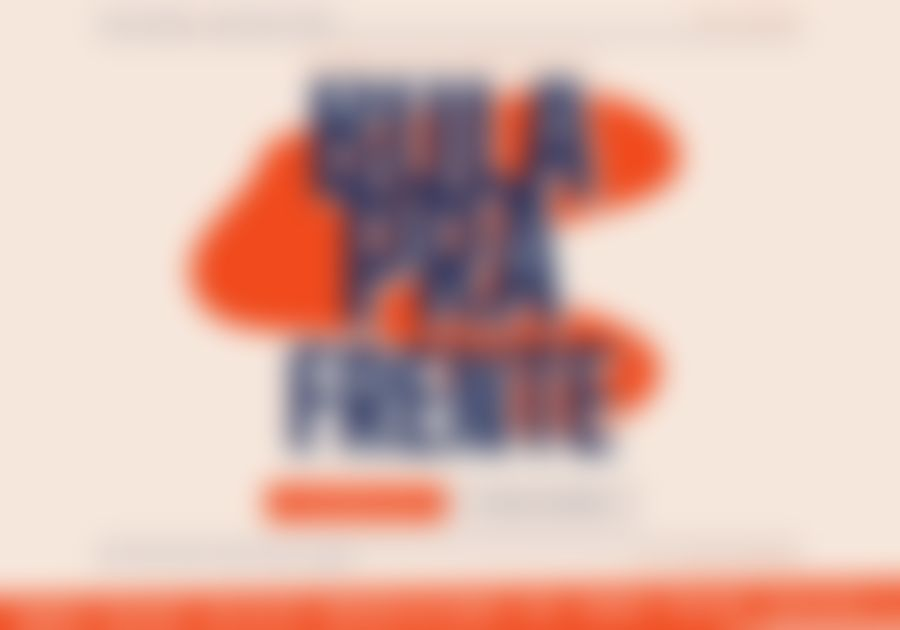
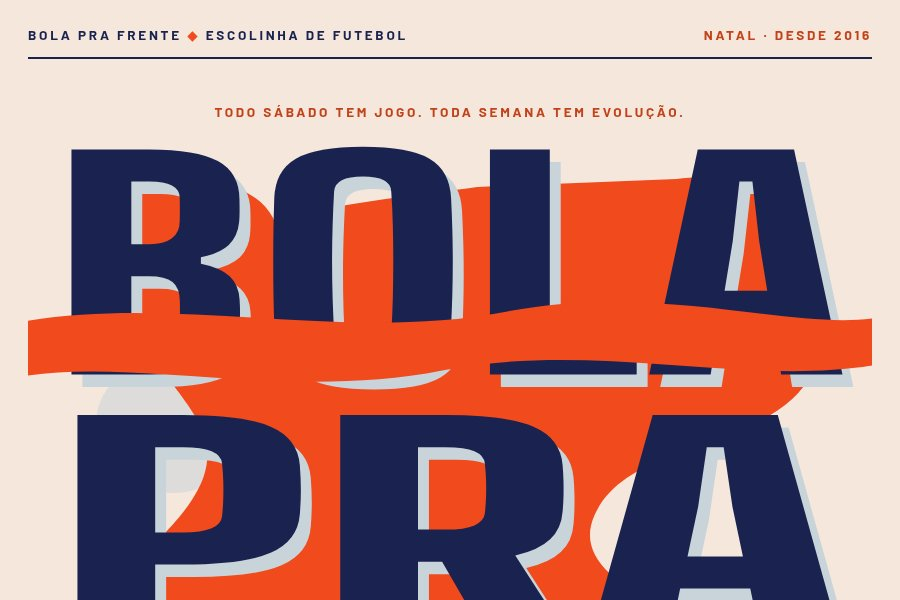
fix(vitrine): hero do Bola pra Frente ainda mais à risca do pin — fitas laranja finas cruzando BOLA e FRENTE por cima das letras, eco cinza atrás

diff --git a/src/components/models/BolaPraFrenteFold.tsx b/src/components/models/BolaPraFrenteFold.tsx
@@ -55,8 +55,23 @@ const BlobBackB = () => (
 );
 const BlobFront = () => (
   <path
-    d="M-20 520 C 200 470, 400 545, 610 505 C 820 465, 990 540, 1100 515 L 1100 585 C 920 630, 730 555, 530 595 C 330 635, 120 570, -20 605 Z"
+    d="M-20 235 C 180 195, 400 260, 610 220 C 820 180, 990 250, 1100 225 L 1100 285 C 930 320, 730 255, 530 295 C 330 335, 120 275, -20 305 Z"
     fill={VM}
+  />
+);
+/** Segunda faixa por cima, cruzando o FRENTE na diagonal como a fita laranja sobre o ACTION do pin. */
+const BlobFront2 = () => (
+  <path
+    d="M1100 795 C 920 840, 770 790, 570 830 C 370 872, 190 812, -20 856 L -20 916 C 210 870, 410 934, 610 892 C 810 850, 950 908, 1100 866 Z"
+    fill={VM}
+  />
+);
+/** Eco cinza-azulado claro do pin, atrás das letras. */
+const BlobGray = () => (
+  <path
+    d="M118 418 C 58 378, 88 278, 188 283 C 288 288, 318 398, 238 438 C 178 468, 148 443, 118 418 Z"
+    fill={PL}
+    opacity="0.55"
   />
 );
 
@@ -127,6 +142,7 @@ export function BolaPraFrenteFold({ client }: { client?: { name?: string; whatsa
           <p className="eyebrow" style={{ color: VMT, marginBottom: 20, textWrap: "balance", maxWidth: 560, marginLeft: "auto", marginRight: "auto" }}>Todo sábado tem jogo. Toda semana tem evolução.</p>
           <h1 style={{ position: "absolute", width: 1, height: 1, overflow: "hidden", clip: "rect(0 0 0 0)" }}>{brand} Escolinha de Futebol em {city}: aulas de futebol infantil do sub-7 ao sub-15 com campeonato interno</h1>
           <svg viewBox="0 0 1080 1000" role="img" aria-label="Pôster com as palavras Bola pra Frente em letras gigantes de ponta a ponta, entremeadas por manchas vermelhas" style={{ width: "100%", height: "auto", display: "block", margin: "0 auto" }}>
+            <BlobGray />
             <BlobBackA />
             <BlobBackB />
             <g fontFamily={display} fontWeight="800" textAnchor="middle">
@@ -142,6 +158,7 @@ export function BolaPraFrenteFold({ client }: { client?: { name?: string; whatsa
               </g>
             </g>
             <BlobFront />
+            <BlobFront2 />
           </svg>
           <div style={{ display: "flex", justifyContent: "center", gap: 16, flexWrap: "wrap", marginTop: 26 }}>
             <a className="btn-v" href={wa(`Olá! Quero agendar uma aula experimental gratuita na escolinha ${brand}.`)} target="_blank" rel="noreferrer">Aula experimental grátis</a>
